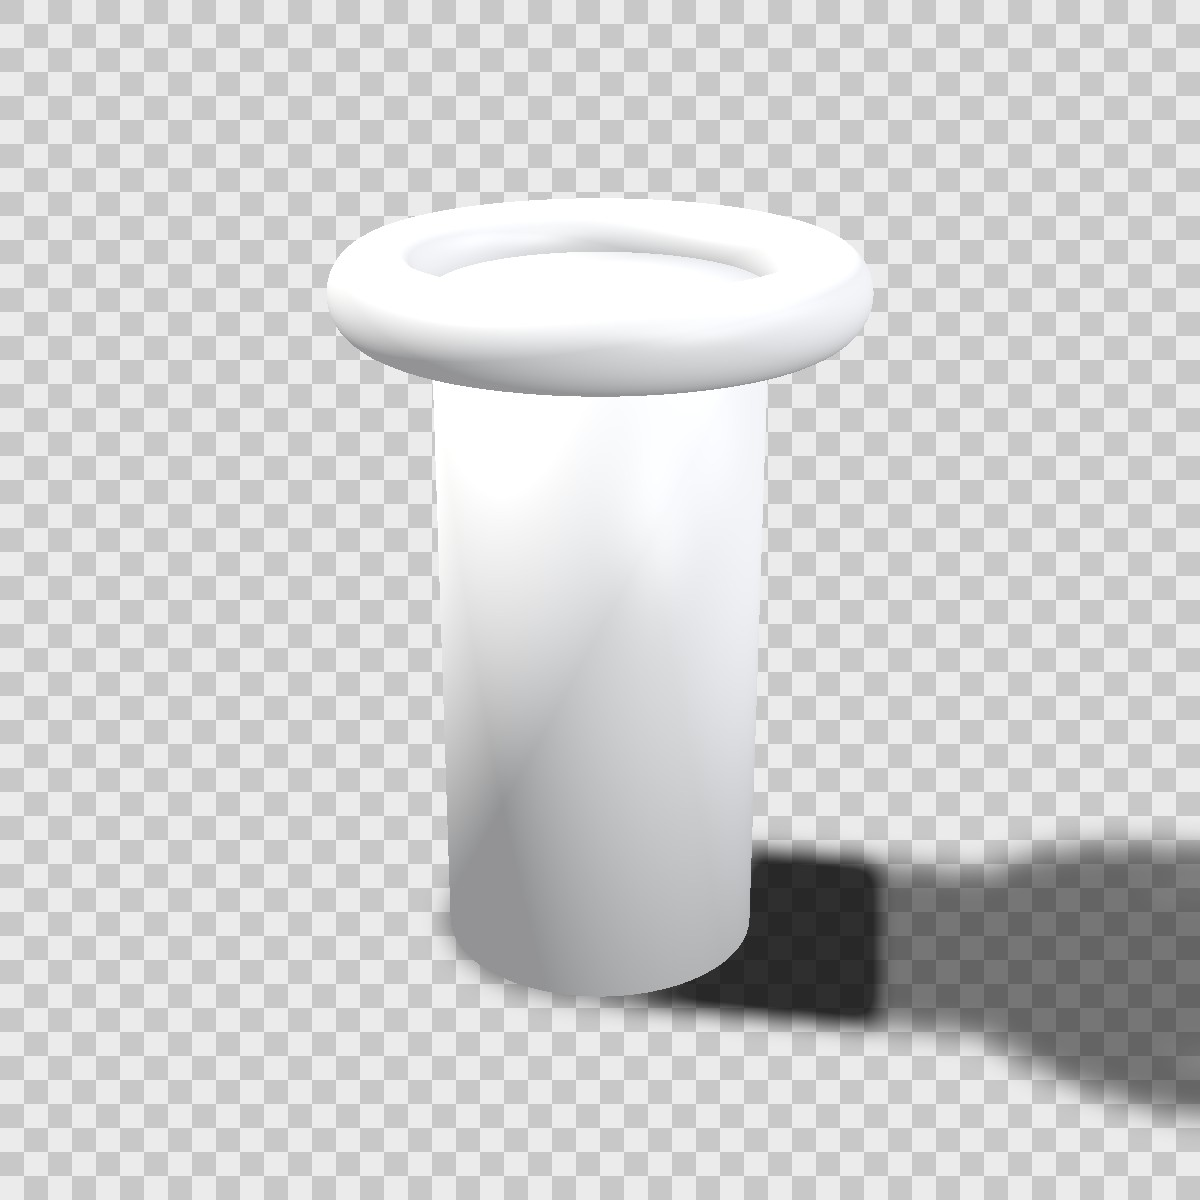
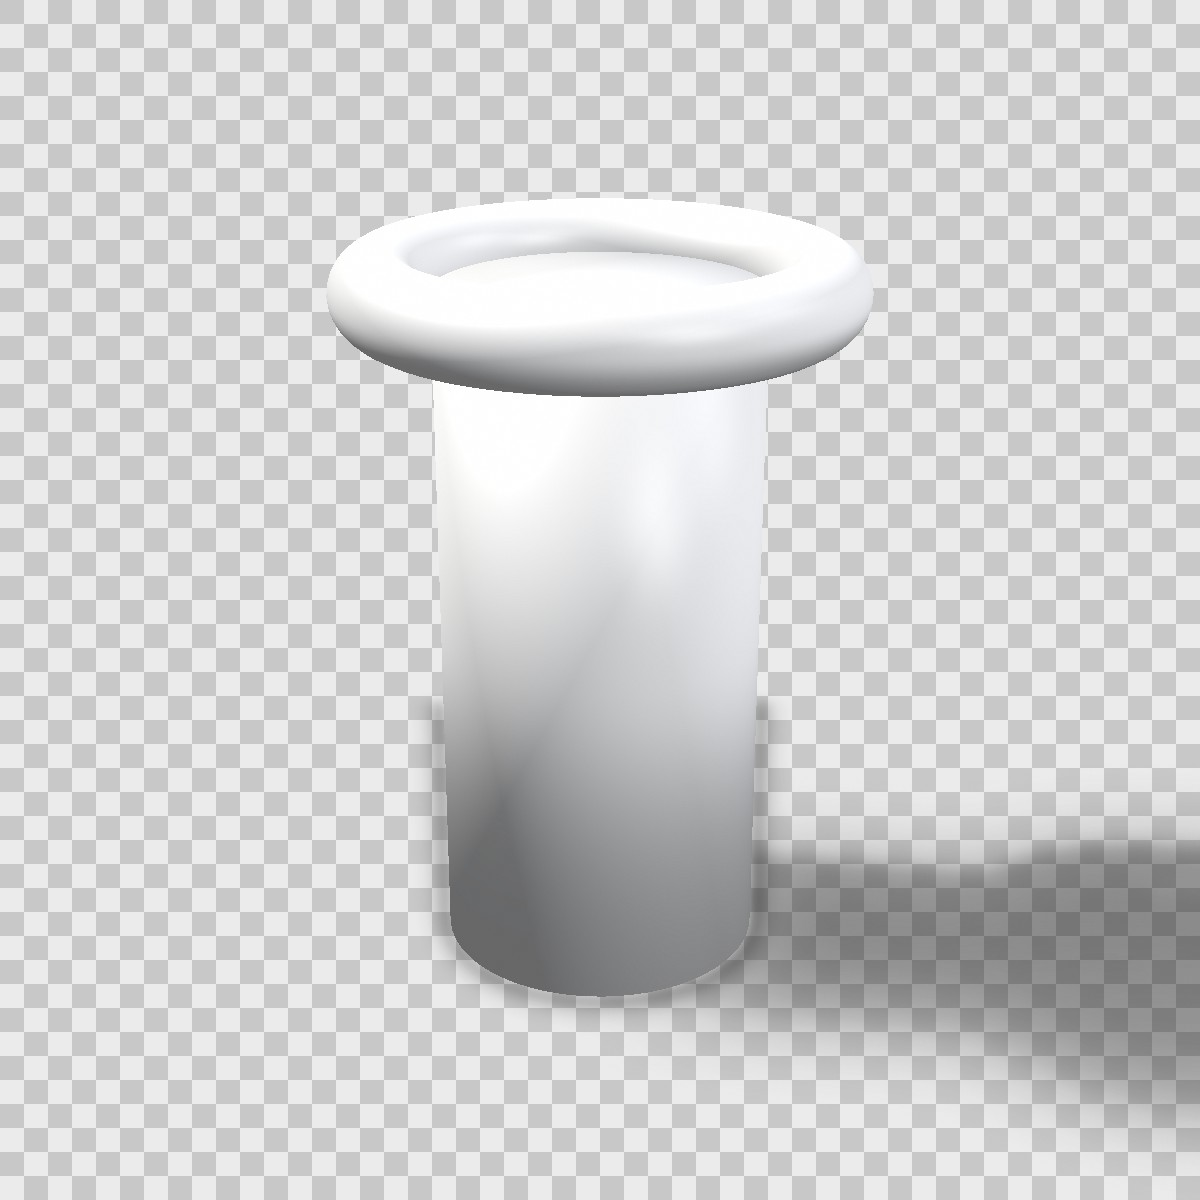
feat(1.1.1): snapshot realism overhaul — penumbra shadow, wrap contact AO, floor reflection, vignette+sheen
- two-lobe cast shadow: distance-based penumbra (crisp near, diffuse tail),
  glow-limited via fitted floor line (no more rectangular clipping)
- wrap-around contact occlusion restricted to the product footprint
- --reflection auto|on|off: mirrored-mesh floor reflection under the product
- photographic backdrop vignette + 1-LSB dither against gradient banding
- material: broad softbox sheen lobe, down-facing surface darkening, ambient lowered
- README/demo assets regenerated with the new renderer; docs updated

Changed region(s): [[0.3392, 0.5858, 1.0, 0.9558], [0.2775, 0.2775, 0.7092, 0.3392], [0.8633, 0.7092, 0.9558, 0.74]]

diff --git a/cutout/mesh/shot.py b/cutout/mesh/shot.py
@@ -164,25 +164,38 @@ def _export(img: Image.Image, path: Path, fmt: str, flatten_color=(255, 255, 255
         raise ValueError(f"unsupported format {fmt!r}")
 
 
+def _small_noise(shape, strength=0.8):
+    """Blue-ish uniform dither (adds grain ~1 LSB to kill gradient banding)."""
+    rng = np.random.default_rng(7)
+    return rng.uniform(-strength, strength, size=shape).astype(np.float32)[..., None]
+
+
 def _flatten_hex(hex_color: str):
     hx = hex_color.lstrip("#")
     return tuple(int(hx[i : i + 2], 16) for i in (0, 2, 4))
 
 
-def _composite(rgb, alpha_prod, bg_tuple, shadow_mask):
-    """Product RGBA (+ optional two-lobe soft floor shadow) -> uint8 HxWx4."""
+def _composite(rgb, alpha_prod, bg_tuple, shadow_mask, refl_rgb=None):
+    """Product RGBA (+ shadow lobes + floor reflection) -> uint8 HxWx4."""
     a_prod = np.clip(alpha_prod, 0.0, 1.0)[..., None].astype(np.float32)
     if shadow_mask is not None:
-        wide = np.clip(shadow_mask.get("wide"), 0.0, 1.0)
-        tight = np.clip(shadow_mask.get("tight"), 0.0, 1.0)
+        wv = shadow_mask.get("wide")
+        tv = shadow_mask.get("tight")
+        wide = np.clip(wv, 0.0, 1.0) if wv is not None else np.zeros(np.shape(rgb)[:2], dtype=np.float32)
+        tight = np.clip(tv, 0.0, 1.0) if tv is not None else np.zeros(np.shape(rgb)[:2], dtype=np.float32)
     else:
         wide = tight = np.zeros(np.shape(rgb)[:2], dtype=np.float32)
 
     if bg_tuple is not None:
-        # GL pass already wrote the backdrop underneath the product: darken the
-        # floor region: wide soft lobe + tight contact occlusion at the base.
-        dark = 1.0 - np.clip(0.30 * wide + 0.45 * tight, 0.0, 0.55)
-        rgbf = rgb.astype(np.float32) * dark[..., None]
+        # GL pass already wrote the backdrop underneath the product. Blend the
+        # mirrored-mesh floor reflection under the product, then darken the
+        # floor with the wide/tight shadow lobes.
+        rgbf = rgb.astype(np.float32)
+        if refl_rgb is not None:
+            ref_rgb, w = refl_rgb
+            rgbf = rgbf * (1.0 - w[..., None]) + ref_rgb * w[..., None]
+        dark = 1.0 - np.clip(0.22 * wide + 0.68 * tight, 0.0, 0.78)
+        rgbf = rgbf * dark[..., None]
         full = np.ones_like(rgbf[..., :1])
         return np.dstack([rgbf, full]).astype(np.uint8)
 
@@ -207,6 +220,7 @@ def render_snapshots(
     fill: float = DEFAULT_FILL,
     sheet: bool = True,
     material: dict | None = None,
+    reflection: str = "auto",
 ) -> list[Path]:
     """Render every requested view of *model_path* into *out_dir*.
 
@@ -219,6 +233,9 @@ def render_snapshots(
 
     *shadow*: "auto" (on for studio/dark/sunset/color, off for transparent
     and white), "on", or "off".
+
+    *reflection*: floor reflection of the product on opaque backdrops
+    ("auto" = on for studio/dark/sunset/color; "on"/"off").
     """
     from .renderer import GLRenderer
 
@@ -246,6 +263,10 @@ def render_snapshots(
         shadow_on = True
     elif shadow == "off":
         shadow_on = False
+
+    reflection_on = reflection == "on" or (reflection == "auto" and bg in (
+        "studio", "dark", "sunset", "color"
+    ))
 
     flatten = (255, 255, 255) if bg != "color" else _flatten_hex(bg_color)
     outputs: list[Path] = []
@@ -276,46 +297,89 @@ def render_snapshots(
                     mesh, view, proj, cam_pos, bg=None
                 )
 
-            mask = None  # soft contact shadow (image space, on the floor only)
-            if shadow_on:
+            # per-column lowest silhouette row (the product base line)
+            has_prod = alpha_prod > 0.3
+            base_row = np.where(
+                has_prod.any(axis=0),
+                np.where(has_prod, np.arange(size)[:, None], 0).max(axis=0),
+                -1,
+            )
+            rows_grad = np.arange(size)[:, None].astype(np.float32)
+            mask = None      # shadow dict {wide, tight} (see _composite)
+            refl_rgb = None  # floor reflection: (rgb, per-pixel weight)
+            if shadow_on or reflection_on:
                 from .renderer import KEY_LIGHT
 
-                raw = _shadow_mask(mesh, view, proj, size, KEY_LIGHT[0])
-                soft = np.asarray(
-                    Image.fromarray((raw * 255).astype(np.uint8)).filter(
-                        ImageFilter.GaussianBlur(radius=max(8, size // 90))
-                    ),
-                    dtype=np.float32,
-                ) / 255.0
-                keep = np.clip(1.0 - alpha_prod, 0.0, 1.0)
-                mask = np.clip(soft * keep, 0.0, 1.0)          # wide blurred lobe
-                # tight contact occlusion: only the floor band *below* the
-                # product's lowest silhouette row per column
-                has_prod = alpha_prod > 0.3
-                base_row = np.where(
-                    has_prod.any(axis=0),
-                    np.where(has_prod, np.arange(size)[:, None], 0).max(axis=0),
-                    -1,
-                )
-                base = np.zeros((size, size), dtype=np.float32)
-                cols = base_row >= 0
-                if cols.any():
-                    rows = np.arange(size)[:, None]
-                    base[:, cols] = (
-                        rows >= base_row[cols][None, :].astype(float) - float(max(8, size // 90))
-                    ).astype(np.float32)
-                contact = np.clip(raw * base * keep, 0.0, 1.0)
-                contact = np.asarray(
-                    Image.fromarray((contact * 255).astype(np.uint8)).filter(
-                        ImageFilter.GaussianBlur(radius=max(10, size // 120))
-                    ),
-                    dtype=np.float32,
-                ) / 255.0
-                mask = dict(wide=mask, tight=contact)
+                foreground_keep = np.clip(1.0 - alpha_prod, 0.0, 1.0)
+                band = float(max(8, size // 90))
+                cols_ok = base_row >= 0
 
-            frame = Image.fromarray(
-                _composite(rgb, alpha_prod, bg_tuple, mask), "RGBA"
-            )
+                # floor line fitted through the product's base row per column
+                # (approximates the on-screen floor plane outside the product)
+                line = np.zeros(size, dtype=np.float32)
+                xs = np.flatnonzero(cols_ok)
+                if len(xs) > 8:
+                    a, b = np.polyfit(xs, base_row[xs].astype(float), 1)
+                    line = np.clip(a * np.arange(size) + b, 0.45 * size, 0.96 * size)
+                else:
+                    line[:] = base_row.max() if cols_ok.any() else size * 0.8
+                drop = rows_grad - line[None, :]
+                below_floor = (drop >= -band).astype(np.float32)
+
+                def _blur(a, rad):
+                    return np.asarray(
+                        Image.fromarray((np.clip(a, 0, 1) * 255).astype(np.uint8)).filter(
+                            ImageFilter.GaussianBlur(radius=float(rad))
+                        ),
+                        dtype=np.float32,
+                    ) / 255.0
+
+                if shadow_on:
+                    raw = _shadow_mask(mesh, view, proj, size, KEY_LIGHT[0])
+                    raw_floor = np.clip(raw * below_floor * foreground_keep, 0, 1)
+                    # distance-based penumbra: sharpish/dark near the contact,
+                    # diffuse further out (no uniform blur, no hard rectangle)
+                    near_weight = np.exp(-np.clip(drop, 0, None) / (0.10 * size))
+                    core = _blur(raw_floor * near_weight, max(3, size // 240))
+                    diffuse = _blur(raw_floor, max(16, size // 30))
+                    # wrap-around occlusion: halo of the silhouette confined to
+                    # the floor band (darkens under the base on the lit side)
+                    halo = _blur(alpha_prod, max(6, size // 80))
+                    rim = _blur(alpha_prod, max(3, size // 260))  # hugs the base rim
+                    contact = np.clip(
+                        0.85 * core + 0.85 * halo * below_floor * foreground_keep
+                        + 1.25 * rim * below_floor * foreground_keep,
+                        0, 1,
+                    )
+                    contact = _blur(contact, max(6, size // 200))
+                    wide = np.clip(
+                        0.55 * _blur(diffuse, max(10, size // 110)) * (1.0 - near_weight * 0.5)
+                        + 0.30 * contact,
+                        0, 1,
+                    ) * below_floor * foreground_keep
+                    wide = _blur(wide, max(4, size // 160))
+                    tight = np.clip(contact + 0.25 * wide, 0.0, 1.0)
+                    mask = dict(wide=wide, tight=tight)
+                if reflection_on and bg_tuple is not None:
+                    mirrored = mesh.copy()
+                    floor_y = float(mesh.bounds[0][1])
+                    mirrored.apply_transform(
+                        np.array([
+                            [1, 0, 0, 0],
+                            [0, -1, 0, 2 * floor_y],
+                            [0, 0, 1, 0],
+                            [0, 0, 0, 1],
+                        ], dtype=np.float64)
+                    )
+                    rgb_ref, _ = renderer.render_mesh(mirrored, view, proj, cam_pos, bg=bg_tuple)
+                    fade = np.clip(1.0 - drop / (0.36 * size), 0.0, 1.0)
+                    refl_rgb = (rgb_ref.astype(np.float32), np.clip(fade * 0.55 * foreground_keep, 0.0, 1.0))
+            frame_arr = _composite(rgb, alpha_prod, bg_tuple, mask, refl_rgb)
+            # 1-LSB dither kills the backdrop gradient banding on 8-bit exports
+            rng = _small_noise(frame_arr.shape[:2])
+            frame_arr = np.clip(frame_arr.astype(np.float32) + rng, 0, 255).astype(np.uint8)
+
+            frame = Image.fromarray(frame_arr, "RGBA")
             fname = f"{mesh.name}-{name}.{fmt}"
             _export(frame, out_dir / fname, fmt, flatten_color=flatten)
             outputs.append(out_dir / fname)

diff --git a/cutout/mesh/renderer.py b/cutout/mesh/renderer.py
@@ -29,7 +29,11 @@ out vec4 out_color;
 uniform vec4 u_bg_top;
 uniform vec4 u_bg_bot;
 void main() {
-    out_color = mix(u_bg_bot, u_bg_top, v_uv.y);
+    vec4 col = mix(u_bg_bot, u_bg_top, v_uv.y);
+    // photographic vignette on the cyclorama
+    vec2 d = v_uv - vec2(0.5);
+    col.rgb *= 1.0 - 0.12 * clamp(dot(d, d) * 2.2, 0.0, 1.0);
+    out_color = col;
 }
 """
 
@@ -79,20 +83,25 @@ void main() {
     col += u_key_col  * u_spec_str        * pow(max(dot(N, hk), 0.0), u_gloss);
     col += u_fill_col * (0.3 * u_spec_str) * pow(max(dot(N, hf), 0.0), u_gloss);
     col += u_rim_col  * (0.5 * u_spec_str) * pow(max(dot(N, hr), 0.0), u_gloss);
+    // broad "softbox" sheen (kitchen-lamp broad glossy reflection)
+    col += u_key_col  * 0.16 * pow(max(dot(N, hk), 0.0), 7.0);
 
     col = pow(clamp(col, 0.0, 1.0), vec3(1.0 / u_gamma));
+    // self-occlusion cue: surfaces facing down (under overhangs / cavities)
+    // catch almost no light in a studio — droop them carefully.
+    col *= mix(1.0, 0.80, smoothstep(0.0, -0.65, N.y));
     out_color = vec4(col, 1.0);
 }
 """
 
 #: studio 3-point rig. Tuple layout: (unit direction of travel, RGB, strength)
-KEY_LIGHT = (np.array([0.45, -0.70, 0.45]), (1.00, 0.98, 0.94), 1.00)
+KEY_LIGHT = (np.array([0.45, -0.70, 0.45]), (1.00, 0.98, 0.94), 0.92)
 FILL_LIGHT = (np.array([-0.65, -0.30, -0.10]), (0.92, 0.94, 1.00), 0.40)
 RIM_LIGHT = (np.array([-0.10, -0.40, -0.80]), (1.00, 1.00, 1.00), 0.60)
 
 #: neutral matte "product studio" material
 MATERIAL = dict(
-    color=(0.87, 0.88, 0.90), gloss=40.0, spec_str=0.35, ambient=0.34, gamma=2.2
+    color=(0.87, 0.88, 0.90), gloss=52.0, spec_str=0.45, ambient=0.26, gamma=2.2
 )
 
 BACKGROUND_PRESETS: dict[str, tuple[tuple, tuple]] = {

diff --git a/cutout/meshcli.py b/cutout/meshcli.py
@@ -24,6 +24,8 @@ def build_parser() -> argparse.ArgumentParser:
     p.add_argument("--bg-color", default="#ffffff", help="colour for --bg color")
     p.add_argument("--shadow", choices=["auto", "on", "off"], default="auto",
                    help="soft contact shadow (auto: on except transparent/white)")
+    p.add_argument("--reflection", choices=["auto", "on", "off"], default="auto",
+                   help="floor reflection (auto: on for studio/dark/sunset/colour)")
     p.add_argument("--size", type=int, default=1600, help="long-edge size in px (256..4096)")
     p.add_argument("--format", dest="fmt", choices=["png", "webp", "jpg"], default="png")
     p.add_argument("--fill", type=float, default=None,
@@ -55,6 +57,7 @@ def main(argv: list[str] | None = None) -> int:
             size=args.size,
             fmt=args.fmt,
             shadow=args.shadow,
+            reflection=args.reflection,
             fill=args.fill if args.fill is not None else DEFAULT_FILL,
             sheet=args.sheet,
         )

diff --git a/cutout/__init__.py b/cutout/__init__.py
@@ -4,4 +4,4 @@ A fully offline reconstruction of the remove.bg processing pipeline
 (see docs/RECON_REPORT.md): local matting model -> alpha matte ->
 composition -> PNG/WebP/JPG export.
 """
-__version__ = "1.1.0"
+__version__ = "1.1.1"

diff --git a/README.md b/README.md
@@ -47,9 +47,10 @@ free because your own GPU does the work.
 - **3D Product Snapshot** (new in 1.1.0) — turn a **STEP / STL / OBJ / PLY /
   GLB** model into a full set of webshop-ready images: the six CAD views,
   the 3/4 *hero* angles, custom turntable spins, on a **transparent** canvas,
-  a **pure-white** Amazon-style main image, a **studio** gradient with soft
-  contact shadow, dark/sunset backdrops, or any solid colour. Rendering is
-  local GPU/OpenGL — study in [`docs/3D_SNAPSHOT_RECON.md`](docs/3D_SNAPSHOT_RECON.md).
+  a **pure-white** Amazon-style main image, a **studio** gradient with
+  two-lobe contact shadow + optional floor reflection, dark/sunset backdrops,
+  or any solid colour. Rendering is local GPU/OpenGL — study in
+  [`docs/3D_SNAPSHOT_RECON.md`](docs/3D_SNAPSHOT_RECON.md).
 
 | ![3D snapshot — studio](assets/screenshots/mesh-studio.png) | ![3D snapshot — white](assets/screenshots/mesh-white.png) | ![3D snapshot — transparent](assets/screenshots/mesh-transparent.jpg) |
 |---|---|---|
@@ -202,6 +203,7 @@ Examples:
 | `--bg` | `studio` | `studio` (gradient + contact shadow) · `white` (pure 255, no shadow — Amazon main image) · `transparent` (alpha PNG/WebP) · `dark` · `sunset` · `color` |
 | `--bg-color` | `#ffffff` | colour for `--bg color` |
 | `--shadow` | `auto` | `on` / `off` / `auto` (auto: on for studio/dark/sunset/color) |
+| `--reflection` | `auto` | floor reflection under the product (`auto`: on for studio/dark/sunset/colour backgrounds) |
 | `--size` | `1600` | output pixel size (square) |
 | `--format` | `png` | `png` / `webp` / `jpg` |
 | `--fill` | `0.85` | subject fill fraction of the frame (Amazon main-image rule = 0.85) |

diff --git a/docs/3D_SNAPSHOT_RECON.md b/docs/3D_SNAPSHOT_RECON.md
@@ -69,10 +69,14 @@ were validated against public docs and screenshots of the official UIs.
   neutral matte "studio clay".
 * Soft shadow: the mesh is projected along the key-light direction onto the
   floor plane at the product's lowest point, rasterised in image space with
-  the same MVP, then blurred twice — a wide soft lobe and a tight contact
-  occlusion restricted to the floor band under the product's base — and
-  composited into the frame (multiplies the backdrop, or writes shadow alpha
-  under transparent backgrounds).
+  the same MVP and composited with a **distance-based penumbra** (crisp core
+  near the contact, diffuse tail), a wrap-around contact occlusion confined
+  to the product footprint, and an optional **floor reflection** (second GL
+  pass with a mirrored mesh, faded below the base line). A 1-LSB dither and a
+  backdrop vignette give export-ready 8-bit output without gradient banding.
+* Known limit: materials are single-lobe Blinn-Phong + a broad softbox sheen —
+  true environment-based PBR (roughness maps, IBL reflections, micro-texture)
+  is the roadmap to fully photographic relighting.
 * Output: PNG (RGBA), WebP, JPG (flattened onto the background), plus an
   optional contact sheet merging all views.
 

diff --git a/CHANGELOG.md b/CHANGELOG.md
@@ -5,6 +5,23 @@ All notable changes to this project will be documented in this file.
 The format is based on [Keep a Changelog](https://keepachangelog.com/en/1.1.0/),
 and this project adheres to [Semantic Versioning](https://semver.org/spec/v2.0.0.html).
 
+## [1.1.1] - 2026-10-15
+
+### Changed
+
+- **Snapshot render realism overhaul** (shading/compositing):
+  - two-lobe cast shadow with a distance-based penumbra (crisp near the
+    contact, diffuse at the tail) projected in image space;
+  - wrap-around contact occlusion at the base, restricted to the product
+    footprint (no phantom darkening on the lit side);
+  - optional **floor reflection** of the product on opaque backdrops
+    (`--reflection auto|on|off`, on by default for studio/dark/sunset/colour);
+  - photographic backdrop vignette + 1-LSB dither (kills gradient banding);
+  - material sheen: broad softbox-style highlight lobe and self-occlusion
+    darkening of down-facing surfaces (under overhangs / cavities);
+  - lowered ambient so cavities read as shadowed.
+- README/demo renders regenerated with the new renderer.
+
 ## [1.1.0] - 2026-10-15
 
 ### Added
